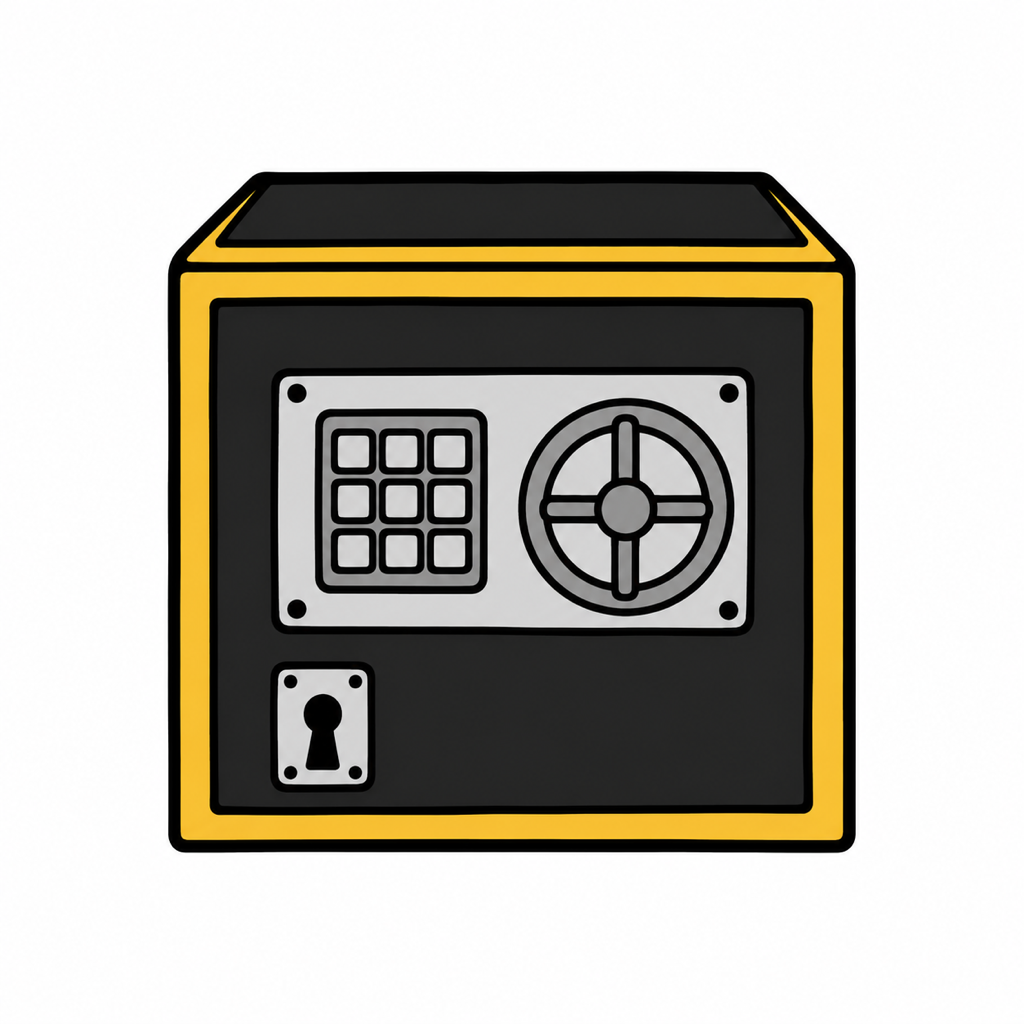
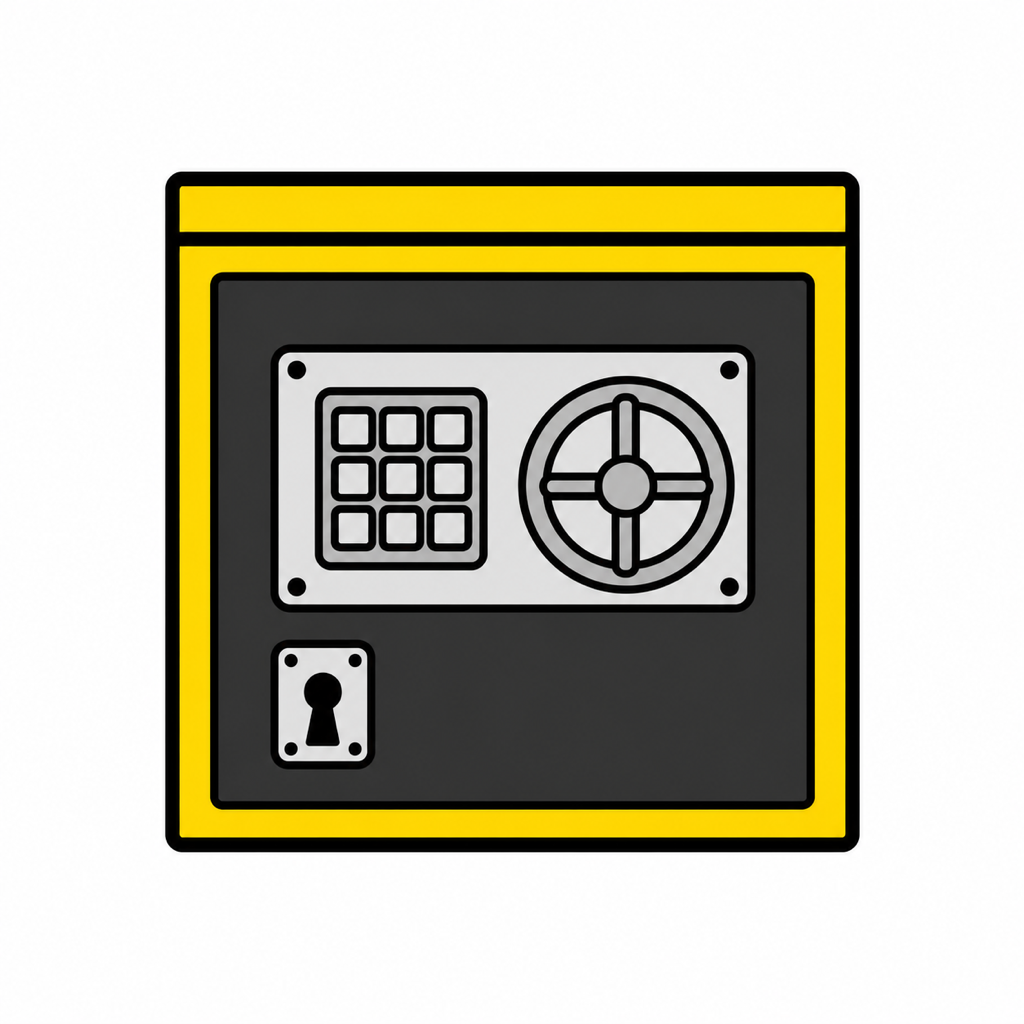
feat: 뽑기 상자 세 개를 정면 2D 그림으로 다시 그림

Changed region(s): [[0.1562, 0.1562, 0.8438, 0.8438]]

diff --git a/docs/GAME_RULES.md b/docs/GAME_RULES.md
@@ -261,7 +261,7 @@
   - 10 **약국**: 생명 물약(15, 다음 스테이지 목숨 +1, 최대 3개 보관 — 바다(31)는 목숨 1 규칙이라 안 마신다) · 하트 물약(10, 다음 스테이지 하트 +2, 최대 3) — 물약은 스테이지를 시작할 때 하나씩 저절로 마신다.
 - **집 뒤(왼쪽)에는 돈쟁이 아저씨** (2026-10-09): **금테 선글라스·콧수염** 아저씨가 **금박 천막**('루비 환전소') 앞에 서 있다. 앞에서 '루비 환전' 말풍선을 누르면 **루비 환전**(로비 루비 상점과 같은 화면 — 점수 500 = 루비 1), 닫으면 아저씨 앞으로. 선글라스·수염은 머리와 같이 움직인다(프레임마다 잰 머리 자리). 몸은 인간 그림(검은 양복 색), 선글라스·수염·천막·반짝임은 코드 그림, 광고 문구는 Claude 판단.
 - **집 앞에는 뽑기 기계** (2026-10-10 「집 앞에 또 뽑기하는 상점도 만들어」, GPT 그림 `gacha_machine`): 앞에서 '뽑기 하기' → 뽑기 가게. **루비 10개로 한 번** 뽑으면 기계가 덜컹거리고 캡슐이 굴러 나와 열리며 상품이 가방에 들어온다. 값·상품·확률은 Claude 판단: 루비 5개 20% · 츄르 20% · 참치캔 15% · 고양이 우유 10% · 하트 물약 10% · 생명 물약 8% · 고양이 갑옷 7% · ✨루비 50개 5% · ✨공격력 Lv업 3% · ✨고양이 부활 약 2%.
-- **뽑기는 상자 세 개 중 하나를 돈을 내고 뽑는다** (2026-10-25 「뽑기는 들어가면 이거 중 하나를 돈을 내고 뽑을 수 있어. 좋은 게 제일 비싸」, 기획17): 위 캡슐 뽑기(루비 10개 한 번, 루비·참치캔·우유·물약·갑옷 상품)는 이 상자 뽑기로 **바뀌었다**. 값·상품·확률은 Claude 판단: ①안 좋은 상자 루비 10 — 다른 편 고양이 3마리 25%(루비 최대 9개 훔쳐 감) · 츄르 30% · 고양이 통조림 25% · 폭탄 20%(루비 -5) / ②그냥 상자 루비 30 — 인간 1명 15% · 아군 고양이 1마리 15% · 츄르 20% · 고양이 통조림 20% · 캣닢 15% · 사료 한 봉 15% / ③좋은 상자 루비 80 — 공격력 Lv업 10% · 아군 고양이 15% · 츄르 18% · 고양이 통조림 17% · 캣닢 15% · 고양이 부활 약 15% · 진화 쿠폰 10%(55분 묭묭 진화). 상품은 사는 순간 바로 적용된다.
+- **뽑기는 상자 세 개 중 하나를 돈을 내고 뽑는다** (2026-10-25 「뽑기는 들어가면 이거 중 하나를 돈을 내고 뽑을 수 있어. 좋은 게 제일 비싸」, 기획17): 위 캡슐 뽑기(루비 10개 한 번, 루비·참치캔·우유·물약·갑옷 상품)는 이 상자 뽑기로 **바뀌었다**. 값·상품·확률은 Claude 판단: ①안 좋은 상자 루비 10 — 다른 편 고양이 3마리 25%(루비 최대 9개 훔쳐 감) · 츄르 30% · 고양이 통조림 25% · 폭탄 20%(루비 -5) / ②그냥 상자 루비 30 — 인간 1명 15% · 아군 고양이 1마리 15% · 츄르 20% · 고양이 통조림 20% · 캣닢 15% · 사료 한 봉 15% / ③좋은 상자 루비 80 — 공격력 Lv업 10% · 아군 고양이 15% · 츄르 18% · 고양이 통조림 17% · 캣닢 15% · 고양이 부활 약 15% · 진화 쿠폰 10%(55분 묭묭 진화). 상품은 사는 순간 바로 적용된다. **상자 그림은 입체가 아닌 정면 2D**(2026-11-08 「뽑기 상자를 3D로 만들지 말고 2D로 만들어」, `Plan/gacha_boxes/`, 예전 입체 그림은 `v3d/`).
 - **'스테이지 깨기'(스테이지 이동)는 집 옆** (2026-10-09 처음엔 상점가 끝 → 2026-10-10 「스테이지 이동은 집 옆에 있어」로 집 바로 오른쪽, 천막들은 그 뒤부터). **누르면 로비와 같은 스테이지 지도가 화면 가득**(2026-10-10 「그냥 숫자 말고 스테이지 지도」 — 돌을 누르면 그 스테이지, 왼쪽 위 '상점 마을로', 오른쪽 위 '스토리 보기'; 아래 숫자 칸 이야기는 예전 것). **큰 표지판처럼 생겼다**(나무 기둥 두 개 위 큰 판, 글씨·스테이지 돌 그림 — 코드 그림). 고르기 창 왼쪽 위 **'스토리 보기'로 스토리를 다시 볼 수 있다**(끝나면 상점 마을로). **고르기 창에는 모든 스테이지(1~128)가 다 나와 있다** — 갈 수 있는 돌은 밝게, 잠겼거나 안 만든 돌은 어둡게(누르면 까닭 안내), 진행 규칙은 로비와 같다. 앞에서 '스테이지 깨기'를 누르면 스테이지 고르기 창(열린 스테이지 돌)이 뜨고, 스테이지를 누르면 그 스테이지를 깬다. **다 깨면(지거나 나가도) 상점 마을 '스테이지 깨기' 앞으로 나온다.** 못 가는 스테이지(잠김·날아냥이/배냥이 무덤 등)는 로비 지도와 같은 안내(`GameView.stageBlockReason`).
 - (건물 지붕 위 관으로 순간이동 — 2026-10-09 만들었다가 대표님 「관 없애고」로 뺌)
 - **14번 천막 = 고양이 놀이방** (2026-10-10, 대표님은 '13번 가게'라 했지만 13번은 체력 훈련장이라 14번에 — 바꿀지 여쭤봄): **들어가려면 먼저 루비 10개**. 안에서는 **출전시킨 냥이들이 뛰놀고**, 냥이마다 **'맡기기'** 버튼 — 맡기면 **캣타워(·출전)에서 없어지고** 놀이방에서 밥을 줘서 **포만감이 늘 가득**. 맡긴 냥이는 놀이방에 계속 있고(이름 앞 ♥), **'맡기지 않기'**를 누르면 캣타워로 데려온다(출전은 캣타워에서 다시 켜기). 방 그림(코드·상점 물건 장난감)·뛰노는 모습은 Claude 판단.
